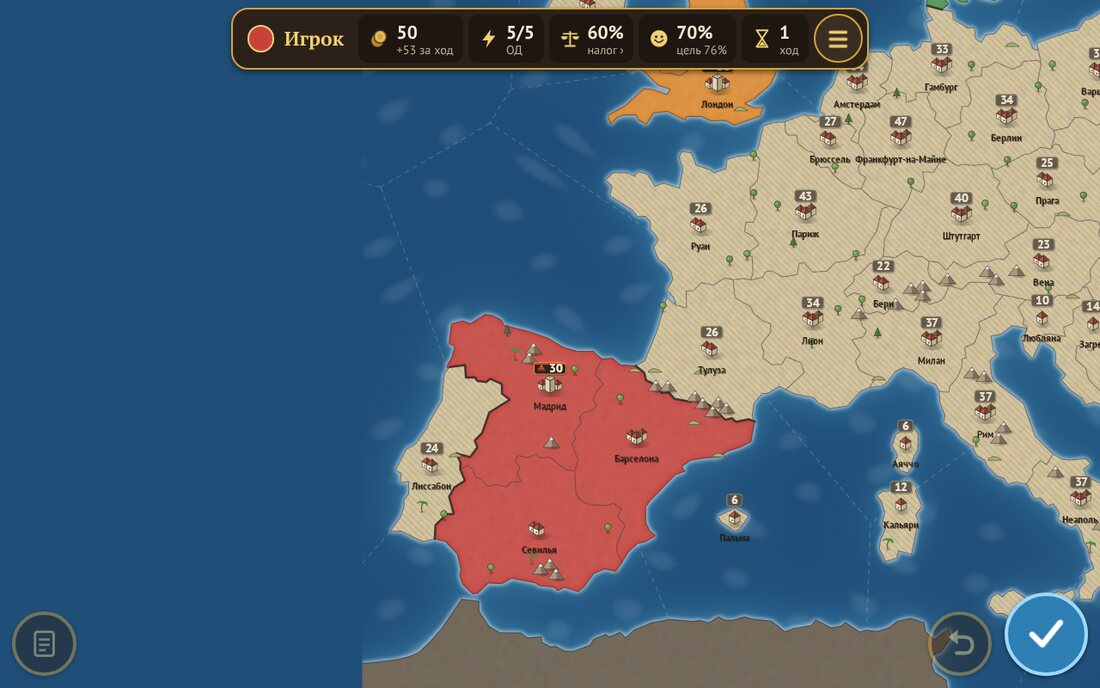
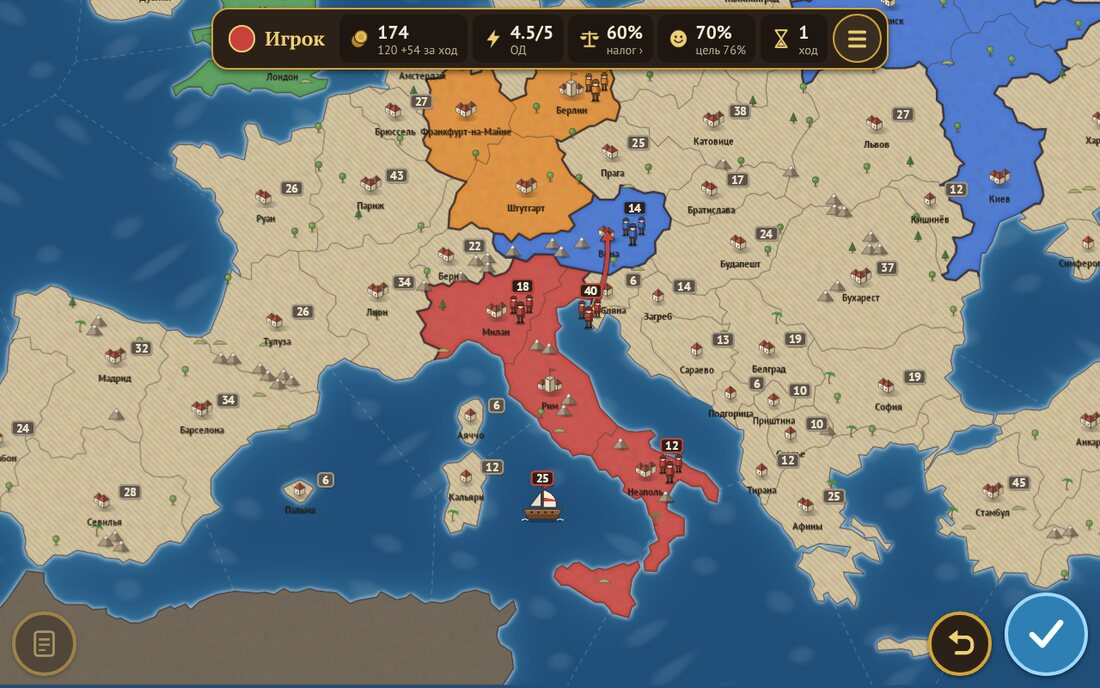
README: правила войны и перемещений, новые скриншоты; версия 0.2.0
Claude-Session: https://claude.ai/code/session_01LcnefXENk3FoR8pUaZvoCm

diff --git a/README.md b/README.md
@@ -4,22 +4,23 @@
 
 ![Партия на планшете](docs/screenshots/game-tablet.jpg)
 
-| Главное меню | Провинция и приказы | Итоги хода |
+| Главное меню | Провинция и приказы | Бой после хода |
 |---|---|---|
-| ![](docs/screenshots/menu.jpg) | ![](docs/screenshots/province.jpg) | ![](docs/screenshots/log.jpg) |
+| ![](docs/screenshots/menu.jpg) | ![](docs/screenshots/province.jpg) | ![](docs/screenshots/battle.jpg) |
 
-## Что есть в первой версии (MVP)
+## Что есть в игре
 
 - Реальная карта Европы с упрощёнными контурами: 70 провинций суши, 26 морских зон, 12 стартовых столиц.
-- Провинции с населением, доходом и счастьем; налог 0–200%, очки действия.
-- Найм войск, укрепление, покупка нейтральных провинций, мародёрство.
-- Бой со случайностью ±5%, одновременные ходы с конфликтами, флот появляется автоматически.
+- Армии — отряды солдатиков в цвете страны, флоты — корабли, над ними плашка с числом.
+- Провинции с населением, доходом и счастьем; налог 0–200%, очки действия (ОД, бывают с половинкой).
+- Найм войск, укрепление, покупка нейтральных провинций, мародёрство, праздник (+счастье).
+- Война объявляется явно; одновременные ходы с конфликтами; бой со случайностью ±5%, бои показываются после хода.
 - ИИ‑соперники трёх уровней сложности, до 6 в партии.
 - Условия победы: превосходство (порог 50–95%), доминирование, уничтожение, захват флага; лимит ходов.
 - Игра вдвоём по Wi‑Fi (один телефон — хост), игра против ИИ, режим «на одном телефоне».
 - Сохранение после каждого хода и «Продолжить».
 
-Во второй этап (не входит): туман войны, типы юнитов и эпохи, дипломатия, режим «Защита», онлайн через Firebase.
+Во второй этап (не входит): туман войны, типы юнитов и эпохи, мир и союзы, режим «Защита», онлайн через Firebase.
 
 ## Как получить APK
 
@@ -76,11 +77,21 @@ apksigner sign --ks warplanet-release.jks --ks-key-alias warplanet \
 
 Ходы одновременные: каждый отдаёт приказы и жмёт **Готово**, хост считает ход за всех, включая ИИ. Если связь пропала, второй телефон переподключается сам и получает полное состояние; хост ждёт его до 2 минут, затем ставит паузу. Партия сохраняется на хосте после каждого хода.
 
+## Правила перемещения и войны
+
+- Каждое перемещение (приказ) стоит **0.5 ОД**. Повторный приказ туда же складывается и ОД не тратит.
+- **По своей земле** армия идёт до **4 клеток** за ход и сразу оказывается на месте — это видно на карте ещё до «Готово». Пришедшие солдаты в этом ходу дальше не идут.
+- **В чужую провинцию** — только в соседнюю с вашей землёй (можно пройти до неё по своей земле, всего не больше 4 шагов). Дальше по чужой территории — по одной провинции за ход. Армия встаёт у границы, бой — после «Готово».
+- **Война.** В провинции другой страны нельзя войти, пока ей не объявлена война: тап по её провинции → **Объявить войну**. Объявить и напасть можно в одном ходу. У объявившего счастье во всех провинциях падает на 10%, у того, на кого напали, — нет; он может отвечать без объявления. Война длится до конца партии.
+- **Флот.** Посадка на корабли (из прибрежной провинции в соседнее море) — **2 золота за солдата**. Флот проходит до **5 морских клеток**, высадка — последним шагом. Чужой флот не обойти; бой в море — с силой ×0,5.
+- **Праздник** в своей провинции: +20% счастья за золото (население / 2000, не меньше 5) и 0.5 ОД.
+- Порядок расчёта хода: доход и содержание → объявления войны → действия в провинциях → перемещения (мирные — первыми) → бои → рост. После расчёта бои с вашим участием показываются по очереди: армии сходятся, числа тают, виден итог. Кнопка **Пропустить** — сразу к журналу.
+
 ## Управление
 
 - Прокрутка карты — пальцем, зум — двумя пальцами.
-- Тап по провинции — панель с данными и действиями: найм, укрепление, мародёрство, покупка соседней нейтральной.
-- Перетащите плашку своей армии на соседнюю клетку — приказ на движение с выбором числа солдат. То же — кнопкой «Отправить армию» в панели.
+- Тап по провинции — панель с данными и действиями: найм, укрепление, праздник, мародёрство, покупка соседней нейтральной, объявление войны.
+- **Отправить армию** (или **флот**) в панели — подсвечиваются клетки, куда можно пойти; тап по ней — выбор числа солдат. То же — перетащить своих солдатиков пальцем. Если туда нельзя, внизу появится причина.
 - Налог — тап по значку налога в верхней панели.
 - Кнопки внизу справа: «Отменить последний» и «Готово», рядом — готовность второго игрока.
 
